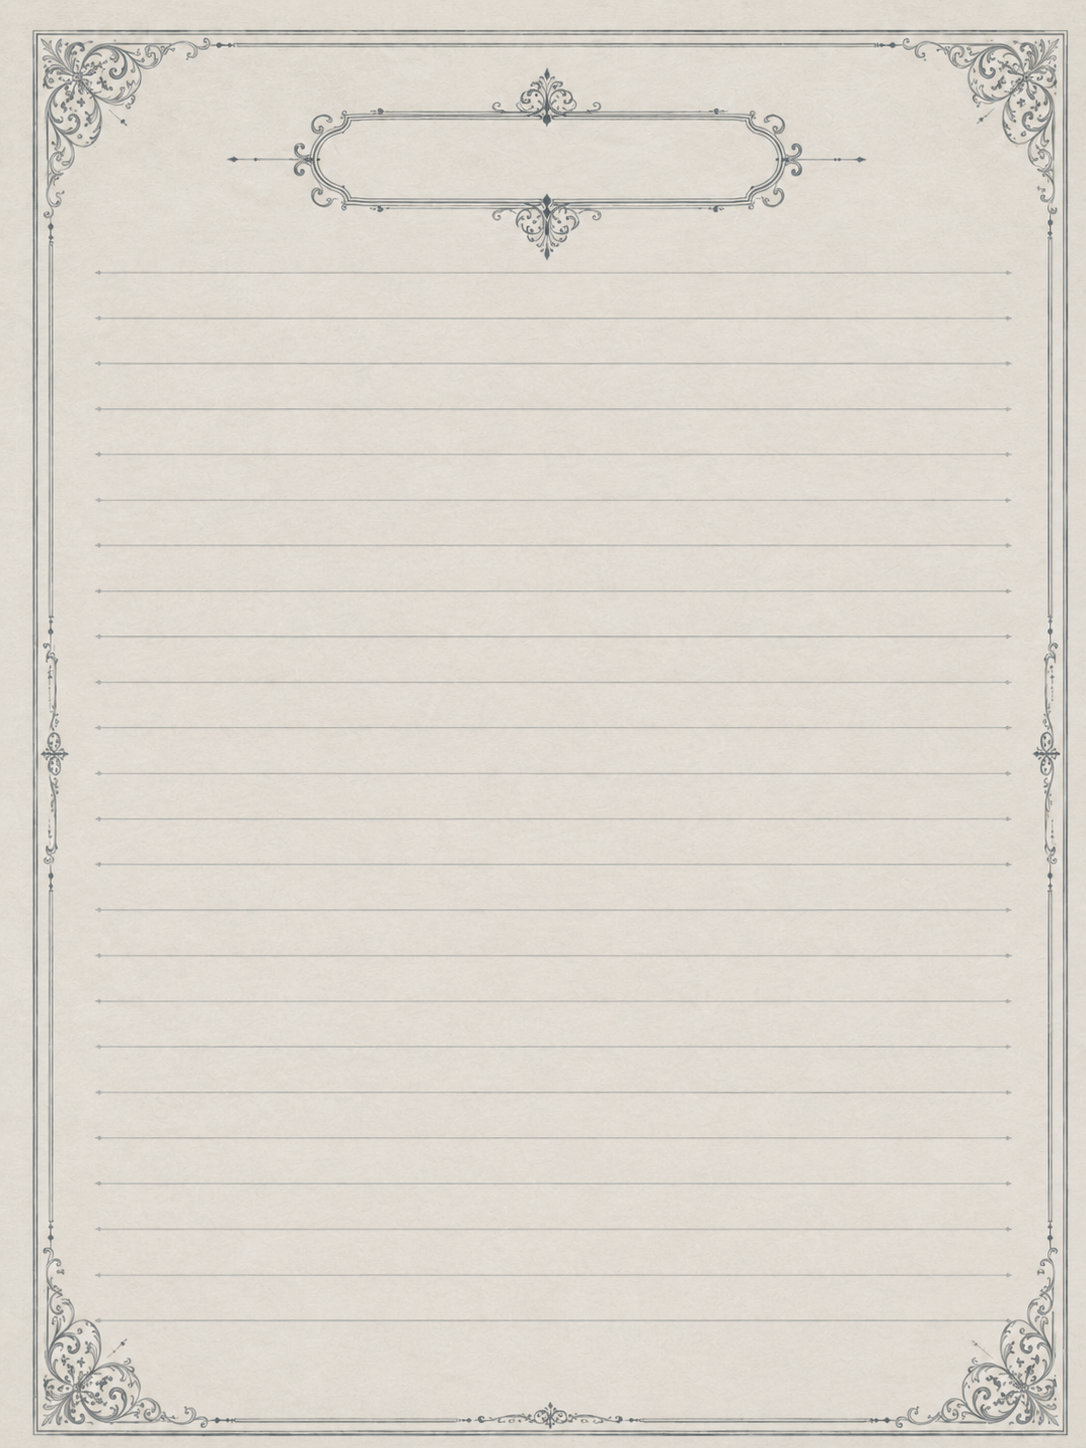
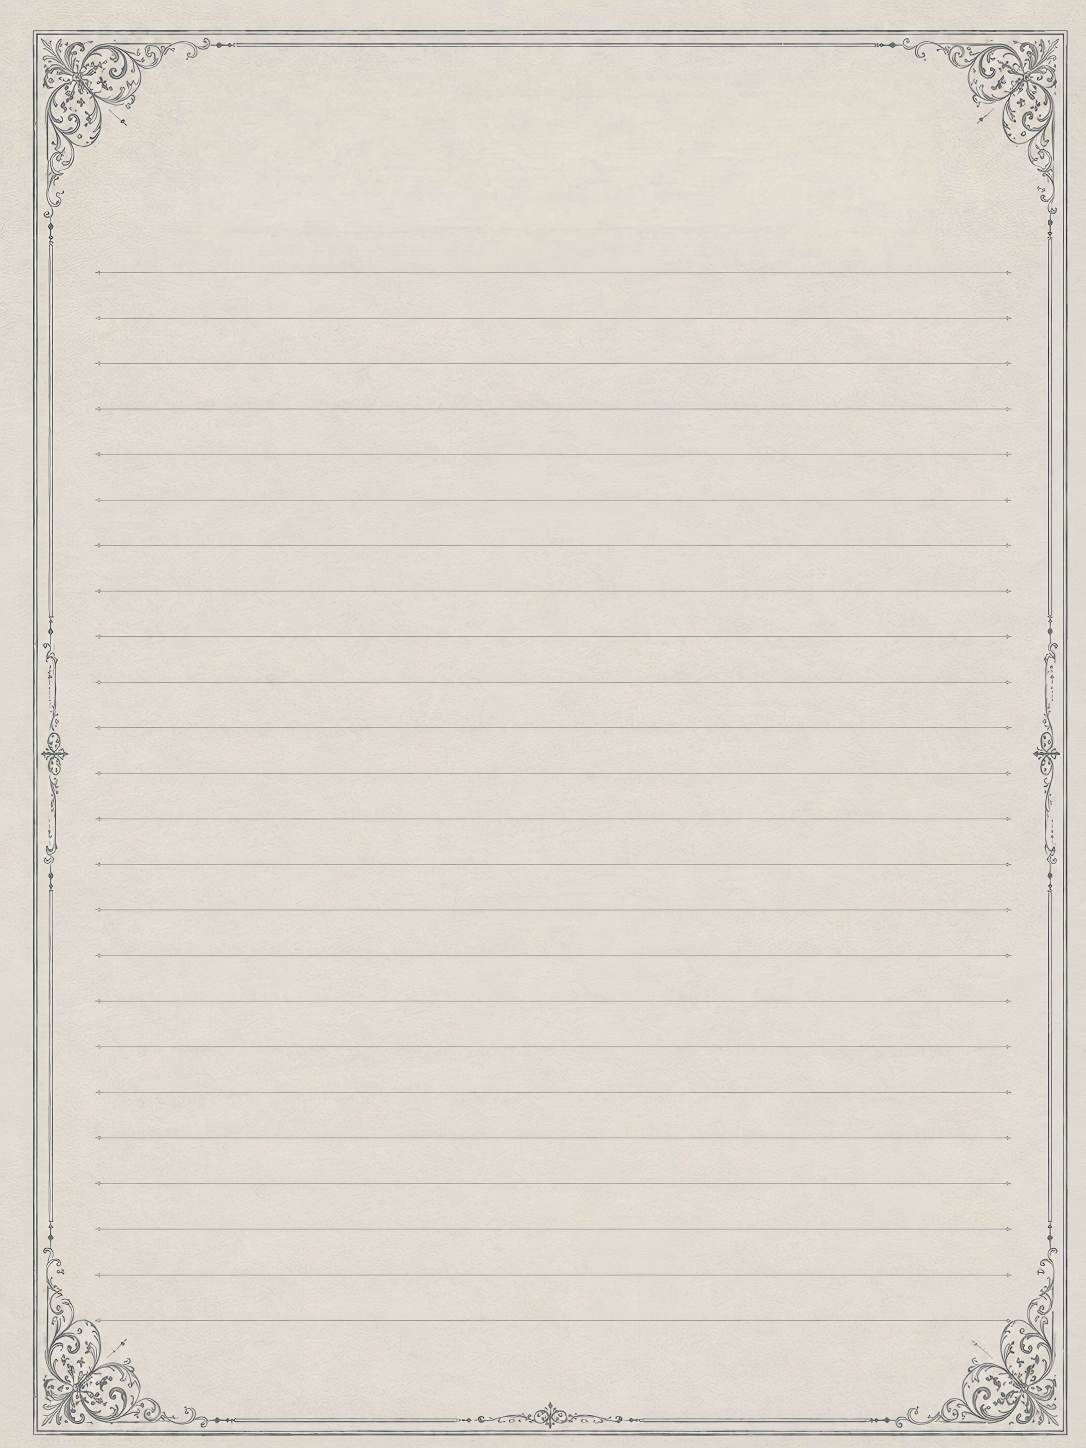
0.11.42

diff --git a/style.css b/style.css
@@ -1004,6 +1004,11 @@ body.slx-panel-open-lock {
   width: min(100%, clamp(220px, calc((var(--slx-viewport-height) - var(--slx-safe-top) - var(--slx-safe-bottom) - 154px) * 0.707), 420px));
 }
 
+.slx-diary-stage-cover.slx-diary-theme-cover-shouhui,
+.slx-diary-stage-cover.slx-diary-theme-cover-fugu {
+  width: min(100%, clamp(230px, calc((var(--slx-viewport-height) - var(--slx-safe-top) - var(--slx-safe-bottom) - 154px) * 0.75), 470px));
+}
+
 .slx-diary-stage-open {
   width: min(980px, calc((var(--slx-viewport-height) - 116px) * 1.414), calc(100vw - 36px));
 }
@@ -1257,39 +1262,28 @@ body.slx-panel-open-lock {
   position: relative;
   overflow: hidden;
   border: 0;
-  background:
-    var(--slx-diary-cover-image, linear-gradient(transparent, transparent)),
-    linear-gradient(180deg, #f5eadf, #e5d5c9);
+  aspect-ratio: 1086 / 1448;
+  background: var(--slx-diary-cover-image, linear-gradient(transparent, transparent));
   background-size:
-    contain,
-    auto;
-  background-repeat:
-    no-repeat,
-    repeat;
-  background-position:
-    center,
-    center;
+    100% 100%;
+  background-repeat: no-repeat;
+  background-position: center;
+  background-color: transparent;
   padding: 0;
   box-shadow:
     0 18px 40px rgba(65, 38, 26, 0.18);
 }
 
 .slx-diary-cover-fugu {
-  background:
-    var(--slx-diary-cover-image, linear-gradient(transparent, transparent)),
-    linear-gradient(180deg, #202a31, #11181d);
-  background-size:
-    cover,
-    auto;
   color: rgba(232, 225, 208, 0.9);
 }
 
 .slx-diary-cover-shouhui .slx-diary-cover-owner {
-  top: 25.5%;
-  width: 45%;
-  height: 7%;
+  top: 24.4%;
+  width: 39%;
+  height: 5.8%;
   color: #6e4e38;
-  font-size: clamp(18px, 5vw, 25px);
+  font-size: clamp(16px, 4.5vw, 22px);
   letter-spacing: 0.08em;
   writing-mode: horizontal-tb;
   text-orientation: mixed;
@@ -1365,7 +1359,7 @@ body.slx-panel-open-lock {
     var(--slx-diary-page-image, linear-gradient(transparent, transparent)),
     linear-gradient(180deg, rgba(250, 246, 236, 0.98), rgba(239, 231, 214, 0.96));
   background-size:
-    cover,
+    100% 100%,
     auto;
   background-position:
     center,
@@ -1838,11 +1832,19 @@ body.slx-panel-open-lock {
 
 .slx-diary-book-page p {
   margin: 0;
-  color: #4f3926;
+  color: var(--slx-diary-character-text-color, #4f3926);
   font-family: 'Noto Serif SC', Georgia, serif;
   font-size: 16px;
   line-height: 2;
   white-space: pre-wrap;
+}
+
+.slx-diary-book-page p.slx-diary-text-user {
+  color: var(--slx-diary-user-text-color, #8b4b43);
+}
+
+.slx-diary-book-page p.slx-diary-text-character {
+  color: var(--slx-diary-character-text-color, #4f3926);
 }
 
 .slx-diary-entry-left-page {

diff --git a/src/features/diary/panel.js b/src/features/diary/panel.js
@@ -280,6 +280,8 @@ function buildDiaryVisualStyle(settings = {}) {
   const declarations = [];
   if (coverImage) declarations.push(`--slx-diary-cover-image: url("${toCssString(coverImage)}")`);
   if (pageImage) declarations.push(`--slx-diary-page-image: url("${toCssString(pageImage)}")`);
+  declarations.push(`--slx-diary-user-text-color: ${toCssString(settings.userTextColor || '#8b4b43')}`);
+  declarations.push(`--slx-diary-character-text-color: ${toCssString(settings.characterTextColor || '#4f3926')}`);
   return declarations.length ? ` style="${escapeHtml(declarations.join('; '))}"` : '';
 }
 
@@ -743,7 +745,7 @@ function renderDiaryEntryPage(chatState) {
         <div class="slx-diary-book-page-date">${escapeHtml(entryTime || '当前剧情日期')}</div>
         <div class="slx-diary-book-rule"></div>
         <div class="slx-diary-entry-scroll">
-          <p>${escapeHtml(leftText)}</p>
+          <p class="${isExchange ? 'slx-diary-text-user' : 'slx-diary-text-character'}">${escapeHtml(leftText)}</p>
         </div>
         <div class="slx-diary-page-footer-left">
           <button class="slx-diary-page-corner-btn" type="button" data-slx-diary-back-toc title="返回目录">
@@ -759,7 +761,7 @@ function renderDiaryEntryPage(chatState) {
         ${isExchange ? `
           <div class="slx-diary-book-page-title">${escapeHtml(rightTitle)}</div>
           <div class="slx-diary-book-rule"></div>
-          <p>${escapeHtml(rightText)}</p>
+          <p class="slx-diary-text-character">${escapeHtml(rightText)}</p>
           <div class="slx-diary-book-page-num">${escapeHtml(entryTime)}</div>
         ` : '<div class="slx-diary-blank-page" aria-hidden="true"></div>'}
       </section>

diff --git a/src/constants.js b/src/constants.js
@@ -1,7 +1,7 @@
 export const MODULE_NAME = 'shenling_assistant';
 export const CHAT_STATE_KEY = `${MODULE_NAME}_chat_state`;
 export const STORAGE_VERSION = 1;
-export const PLUGIN_VERSION = '0.11.41';
+export const PLUGIN_VERSION = '0.11.42';
 export const DEFAULT_SUMMARY_INCLUDE_TAGS = Object.freeze(['content']);
 export const DEFAULT_SUMMARY_EXCLUDE_TAGS = Object.freeze(['thinking', 'wave']);
 export const MEMORY_BLOCK_RE = /<memory>[\s\S]*?<\/memory>/gi;

diff --git a/README.md b/README.md
@@ -2,7 +2,7 @@
 
 蜃灵助手是一个 SillyTavern 第三方插件，用于长篇剧情游玩中的总结、归档、通讯日志、副 API 管理、词汇替换与角色状态辅助。
 
-当前版本：`0.11.41`
+当前版本：`0.11.42`
 
 GitHub 仓库：
 